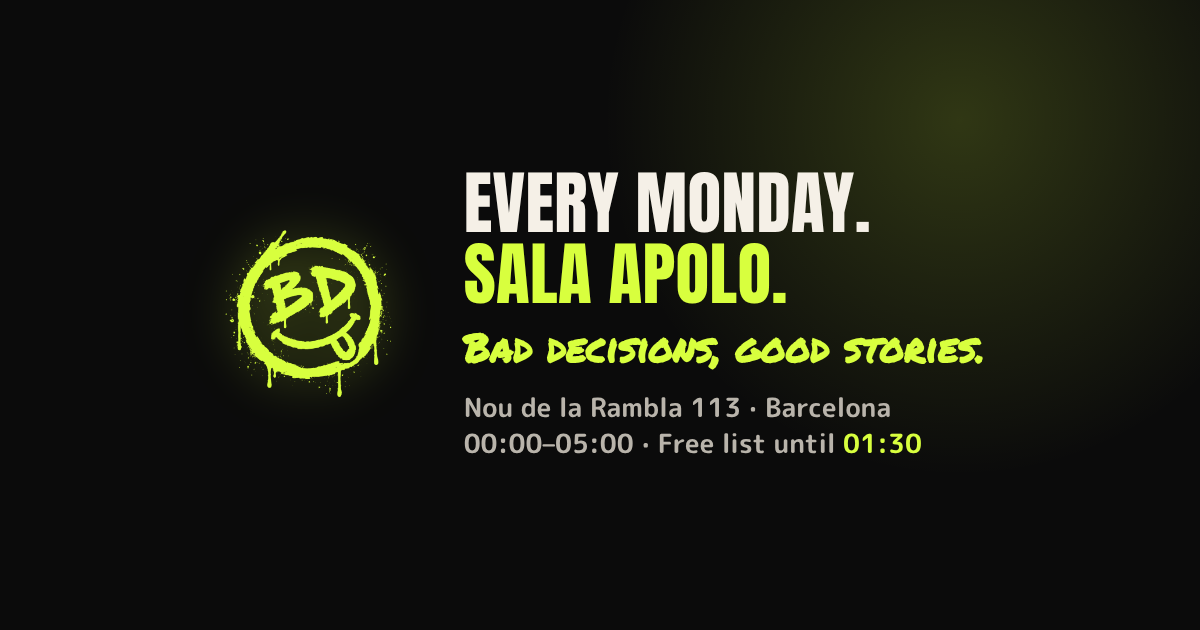
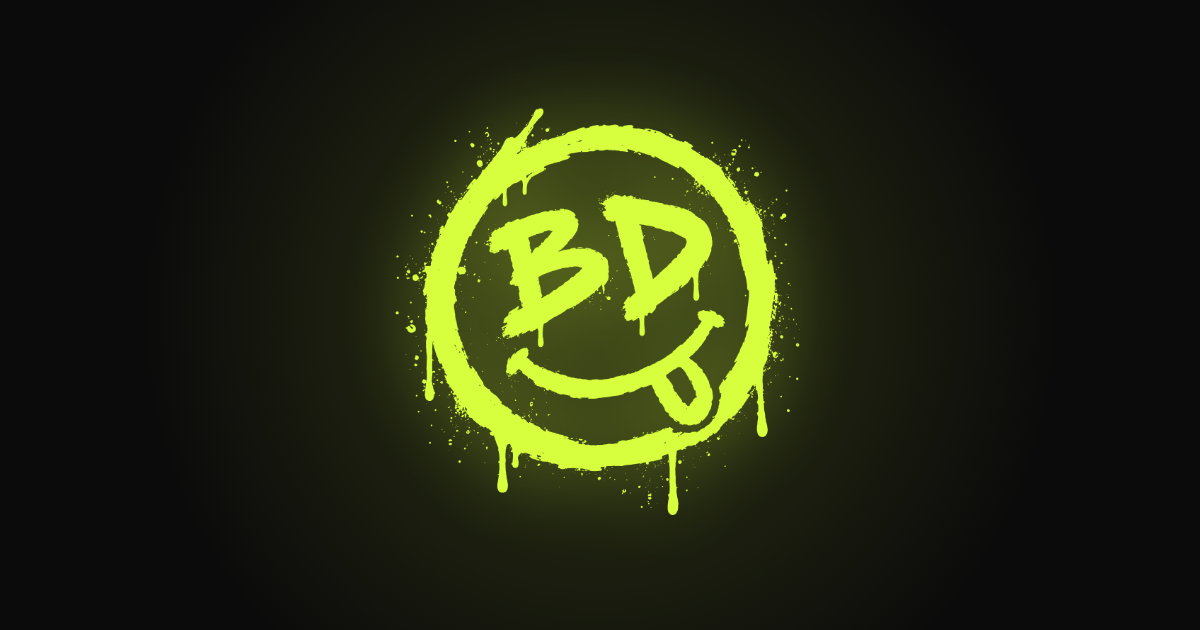
Share image: smile only, readable in WhatsApp's small square preview
Claude-Session: https://claude.ai/code/session_01QaytdjiEQDD2dJYdDk6tGW

Changed region(s): [[0.185, 0.0905, 0.8325, 0.8746], [0.7092, 0.0, 0.9558, 0.3921]]

diff --git a/src/make_images.js b/src/make_images.js
@@ -1,14 +1,15 @@
 // Renders src/og.html into the social (OG) image and the event images Google recommends (16:9, 4:3, 1:1).
+// The OG image shows only the smile (#solo): WhatsApp crops it to a small square, where text can't be read.
 // Run: node src/make_images.js   (needs Playwright)
 const { chromium } = require('playwright');
 const path = require('path');
 const out = path.join(__dirname, '..', 'public', 'assets', 'img');
-const sizes = [['og-image.png', 1200, 630], ['event-16x9.jpg', 1200, 675], ['event-4x3.jpg', 1200, 900], ['event-1x1.jpg', 1200, 1200]];
+const sizes = [['og-image.png', 1200, 630, '#solo'], ['event-16x9.jpg', 1200, 675], ['event-4x3.jpg', 1200, 900], ['event-1x1.jpg', 1200, 1200]];
 (async () => {
   const b = await chromium.launch();
-  for (const [name, w, h] of sizes) {
+  for (const [name, w, h, hash = ''] of sizes) {
     const p = await b.newPage({ viewport: { width: w, height: h } });
-    await p.goto('file://' + path.join(__dirname, 'og.html'));
+    await p.goto('file://' + path.join(__dirname, 'og.html') + hash);
     await p.evaluate(() => document.fonts.ready);
     await p.waitForTimeout(300);
     await p.screenshot({ path: path.join(out, name), type: name.endsWith('.jpg') ? 'jpeg' : 'png', quality: name.endsWith('.jpg') ? 85 : undefined });

diff --git a/src/og.html b/src/og.html
@@ -13,6 +13,9 @@ body:before{content:"";position:absolute;width:70vmax;height:70vmax;right:-15vma
 .tall .box{flex-direction:column;text-align:center;gap:4vh}
 img{width:30vmin;filter:drop-shadow(0 0 4vmin #d8ff3e55)}
 .tall img{width:42vmin}
+.solo .box>div{display:none}
+.solo img{width:auto;height:72vh;filter:drop-shadow(0 0 6vmin #d8ff3e66)}
+.solo:before{right:auto;left:50%;top:50%;transform:translate(-50%,-50%);width:90vmax;height:90vmax}
 h1{font-family:Anton;font-weight:400;text-transform:uppercase;line-height:1.02;font-size:11vmin;letter-spacing:.005em}
 h1 span{color:#D8FF3E}
 .brush{font-family:Brush;color:#D8FF3E;font-size:6.2vmin;margin-top:1.5vmin;display:block}
@@ -28,5 +31,6 @@ p b{color:#D8FF3E}
     <p>Nou de la Rambla 113 · Barcelona<br>00:00–05:00 · Free list until <b>01:30</b></p>
   </div>
 </div>
-<script>if (innerHeight / innerWidth > 0.7) document.body.classList.add('tall');</script>
+<script>if (location.hash === '#solo') document.body.classList.add('solo');
+if (innerHeight / innerWidth > 0.7) document.body.classList.add('tall');</script>
 </body></html>
